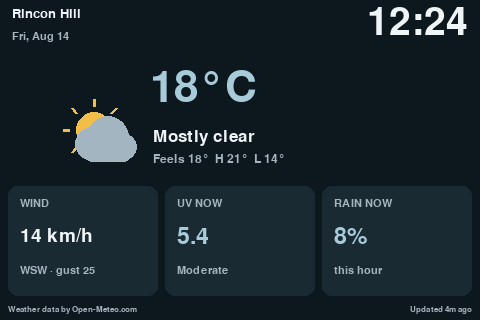
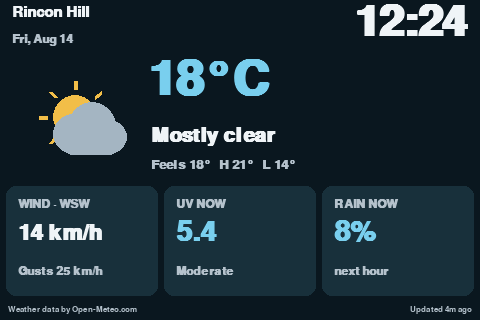
Improve dashboard readability at distance

diff --git a/weather_display/renderer.py b/weather_display/renderer.py
@@ -13,12 +13,12 @@ from .weather import WeatherSnapshot
 
 WIDTH, HEIGHT = 480, 320
 TEXT = (239, 244, 247)
-MUTED = (166, 180, 191)
+MUTED = (181, 194, 204)
 THEMES = {
     "default": {"bg": (9, 15, 21), "card": (21, 31, 40), "accent": (99, 190, 226), "warm": (244, 194, 72)},
     "clear": {"bg": (8, 25, 38), "card": (17, 47, 63), "accent": (255, 202, 79), "warm": (255, 202, 79)},
     "night": {"bg": (12, 15, 37), "card": (28, 31, 65), "accent": (174, 190, 255), "warm": (213, 220, 255)},
-    "cloud": {"bg": (13, 23, 30), "card": (25, 42, 50), "accent": (168, 203, 218), "warm": (242, 190, 72)},
+    "cloud": {"bg": (10, 23, 31), "card": (24, 48, 59), "accent": (121, 207, 238), "warm": (242, 190, 72)},
     "rain": {"bg": (8, 20, 33), "card": (16, 39, 57), "accent": (83, 181, 235), "warm": (244, 190, 72)},
     "fog": {"bg": (22, 28, 31), "card": (39, 48, 52), "accent": (190, 211, 216), "warm": (242, 190, 72)},
     "snow": {"bg": (15, 27, 39), "card": (30, 50, 65), "accent": (205, 235, 247), "warm": (242, 190, 72)},
@@ -29,7 +29,9 @@ THEMES = {
 class DashboardRenderer:
     def __init__(self, surface: pygame.Surface):
         self.surface = surface
-        self.fonts = {size: pygame.font.Font(None, size) for size in (13, 15, 16, 18, 20, 24, 26, 28, 34, 48, 58, 64)}
+        self.fonts = {size: pygame.font.Font(None, size) for size in (13, 16, 18, 20, 22, 24, 28, 30, 32, 34, 42, 48, 64, 72)}
+        for size, font in self.fonts.items():
+            font.set_bold(size >= 18)
         self._icon_cache: dict[tuple, pygame.Surface] = {}
         self.theme = THEMES["default"]
 
@@ -40,25 +42,25 @@ class DashboardRenderer:
         self.theme = _theme_for(icon_name)
         self.surface.fill(self.theme["bg"])
         local = local_datetime(now, settings.timezone)
-        self._text(_truncate(settings.location_label, 24), 20, TEXT, (12, 7))
-        self._text(local.strftime("%a, %b %-d"), 16, MUTED, (12, 31))
+        self._text(_truncate(settings.location_label, 20), 22, TEXT, (12, 5))
+        self._text(local.strftime("%a, %b %-d"), 18, MUTED, (12, 33))
         clock = format_clock(now, settings.timezone, settings.clock_format)
-        clock_font = 48 if settings.clock_format == "12h" else 58
-        self._text(clock, clock_font, TEXT, (468, 3), anchor="topright")
+        clock_font = 48 if settings.clock_format == "12h" else 64
+        self._text(clock, clock_font, TEXT, (468, 0), anchor="topright")
 
         if weather is None:
-            self._draw_icon("unknown", (68, 116), 68)
-            self._text("Waiting for weather", 26, TEXT, (150, 105))
-            self._text("Retrying automatically…", 18, MUTED, (150, 137))
+            self._draw_icon("unknown", (40, 82), 96)
+            self._text("Waiting for weather", 30, TEXT, (150, 99))
+            self._text("Retrying automatically…", 20, MUTED, (150, 139))
             self._draw_cards(None)
         else:
             condition, icon = condition_for(weather.weather_code, weather.is_day)
-            self._draw_icon(icon, (60, 98), 84)
-            self._text(f"{rounded(weather.temperature)}{weather.temperature_unit}", 64, self.theme["accent"], (150, 66))
-            self._text(condition, 26, TEXT, (153, 128))
+            self._draw_icon(icon, (36, 80), 98)
+            self._text(f"{rounded(weather.temperature)}{weather.temperature_unit}", 72, self.theme["accent"], (148, 55))
+            self._text(condition, 30, TEXT, (151, 126))
             secondary = (f"Feels {rounded(weather.apparent_temperature)}°  "
                          f"H {rounded(weather.high)}°  L {rounded(weather.low)}°")
-            self._text(secondary, 18, MUTED, (153, 153))
+            self._text(secondary, 20, MUTED, (151, 158))
             self._draw_cards(weather)
 
         fetched = _parse_time(weather.fetched_at) if weather else None
@@ -73,23 +75,26 @@ class DashboardRenderer:
         self._text(status, 13, (231, 150, 75) if stale or error else MUTED, (472, 305), anchor="topright")
 
     def _draw_cards(self, weather: WeatherSnapshot | None) -> None:
-        cards = ((8, 186, 150, 110), (165, 186, 150, 110), (322, 186, 150, 110))
+        cards = ((6, 186, 152, 110), (164, 186, 152, 110), (322, 186, 152, 110))
         for rect in cards:
             pygame.draw.rect(self.surface, self.theme["card"], rect, border_radius=10)
-        self._text("WIND", 16, MUTED, (20, 198))
-        self._text("UV NOW", 16, MUTED, (177, 198))
-        self._text("RAIN NOW", 16, MUTED, (334, 198))
         if not weather:
-            for x in (20, 177, 334): self._text("—", 34, TEXT, (x, 229))
+            self._text("WIND", 18, MUTED, (18, 198))
+            self._text("UV NOW", 18, MUTED, (176, 198))
+            self._text("RAIN NOW", 18, MUTED, (334, 198))
+            for x in (18, 176, 334): self._text("—", 42, TEXT, (x, 222))
             return
         wind = f"{rounded(weather.wind_speed)} {weather.wind_unit}"
-        self._text(wind, 28 if len(wind) < 10 else 24, TEXT, (20, 226))
         direction = compass_direction(weather.wind_direction)
-        self._text(f"{direction} · gust {rounded(weather.wind_gusts)}", 16, MUTED, (20, 265))
-        self._text(str(round(weather.uv_index, 1)), 34, self.theme["accent"], (177, 225))
-        self._text(uv_risk(weather.uv_index), 16, MUTED, (177, 265))
-        self._text(f"{weather.precipitation_probability}%", 34, self.theme["accent"], (334, 225))
-        self._text("this hour", 16, MUTED, (334, 265))
+        self._text(f"WIND · {direction}", 18, MUTED, (18, 198))
+        self._text("UV NOW", 18, MUTED, (176, 198))
+        self._text("RAIN NOW", 18, MUTED, (334, 198))
+        self._text(wind, 32 if len(wind) < 10 else 28, TEXT, (18, 222))
+        self._text(f"Gusts {rounded(weather.wind_gusts)} {weather.wind_unit}", 18, MUTED, (18, 265))
+        self._text(str(round(weather.uv_index, 1)), 42, self.theme["accent"], (176, 218))
+        self._text(uv_risk(weather.uv_index), 18, MUTED, (176, 265))
+        self._text(f"{weather.precipitation_probability}%", 42, self.theme["accent"], (334, 218))
+        self._text("next hour", 18, MUTED, (334, 265))
 
     def _text(self, value: str, size: int, color: tuple[int, int, int], pos: tuple[int, int], anchor="topleft"):
         rendered = self.fonts[size].render(str(value), True, color)

diff --git a/tests/test_repository.py b/tests/test_repository.py
@@ -7,6 +7,9 @@ ROOT=Path(__file__).parents[1]
 
 def test_installer_shell_syntax(): subprocess.run(["bash","-n",ROOT/"scripts/install.sh"],check=True)
 
+def test_installer_reinstalls_same_version_updates():
+    assert "--force-reinstall" in (ROOT/"scripts/install.sh").read_text()
+
 def test_xrandr_primary_mode_parser():
     line="Unknown19-1 connected primary 480x320+0+0 (normal left inverted right x axis y axis)"
     program='/ connected / {for (i=1; i<=NF; i++) if ($i ~ /^[0-9]+x[0-9]+\\+/) {print $i; exit}}'
